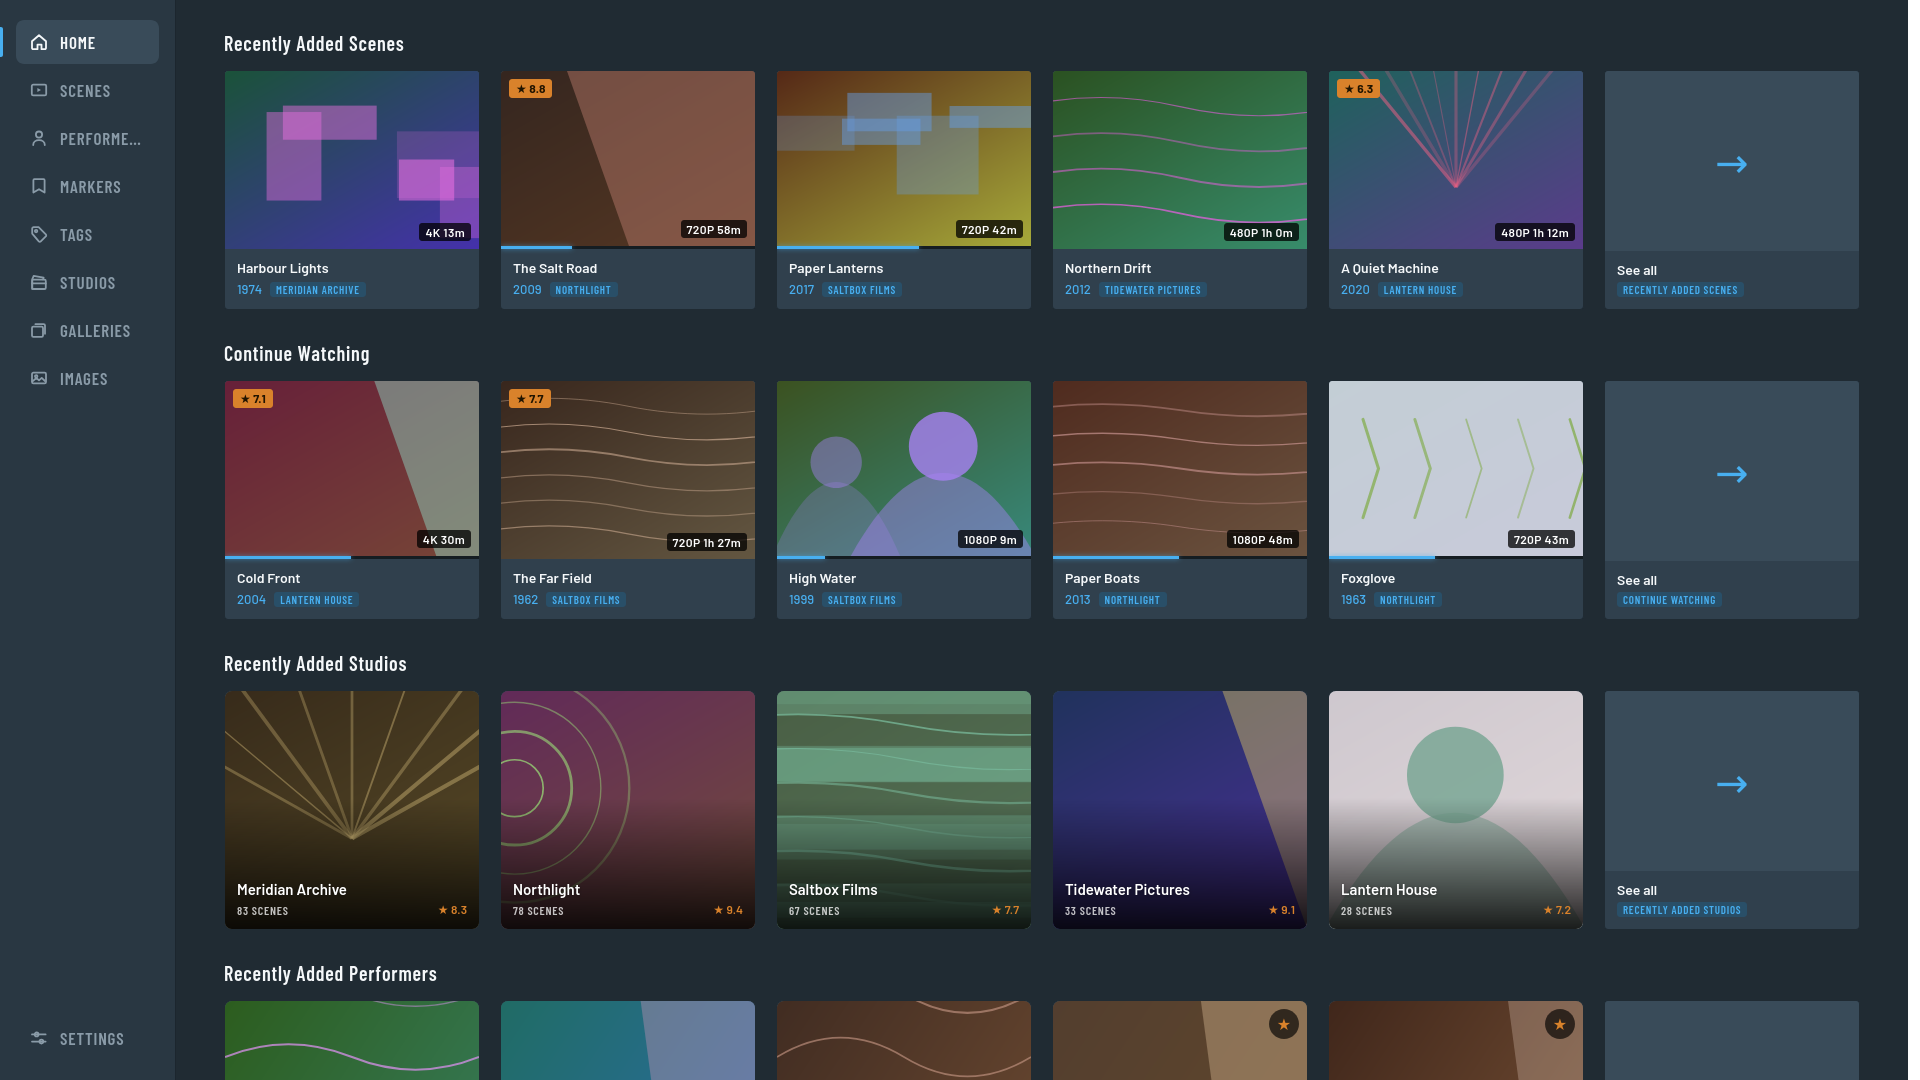
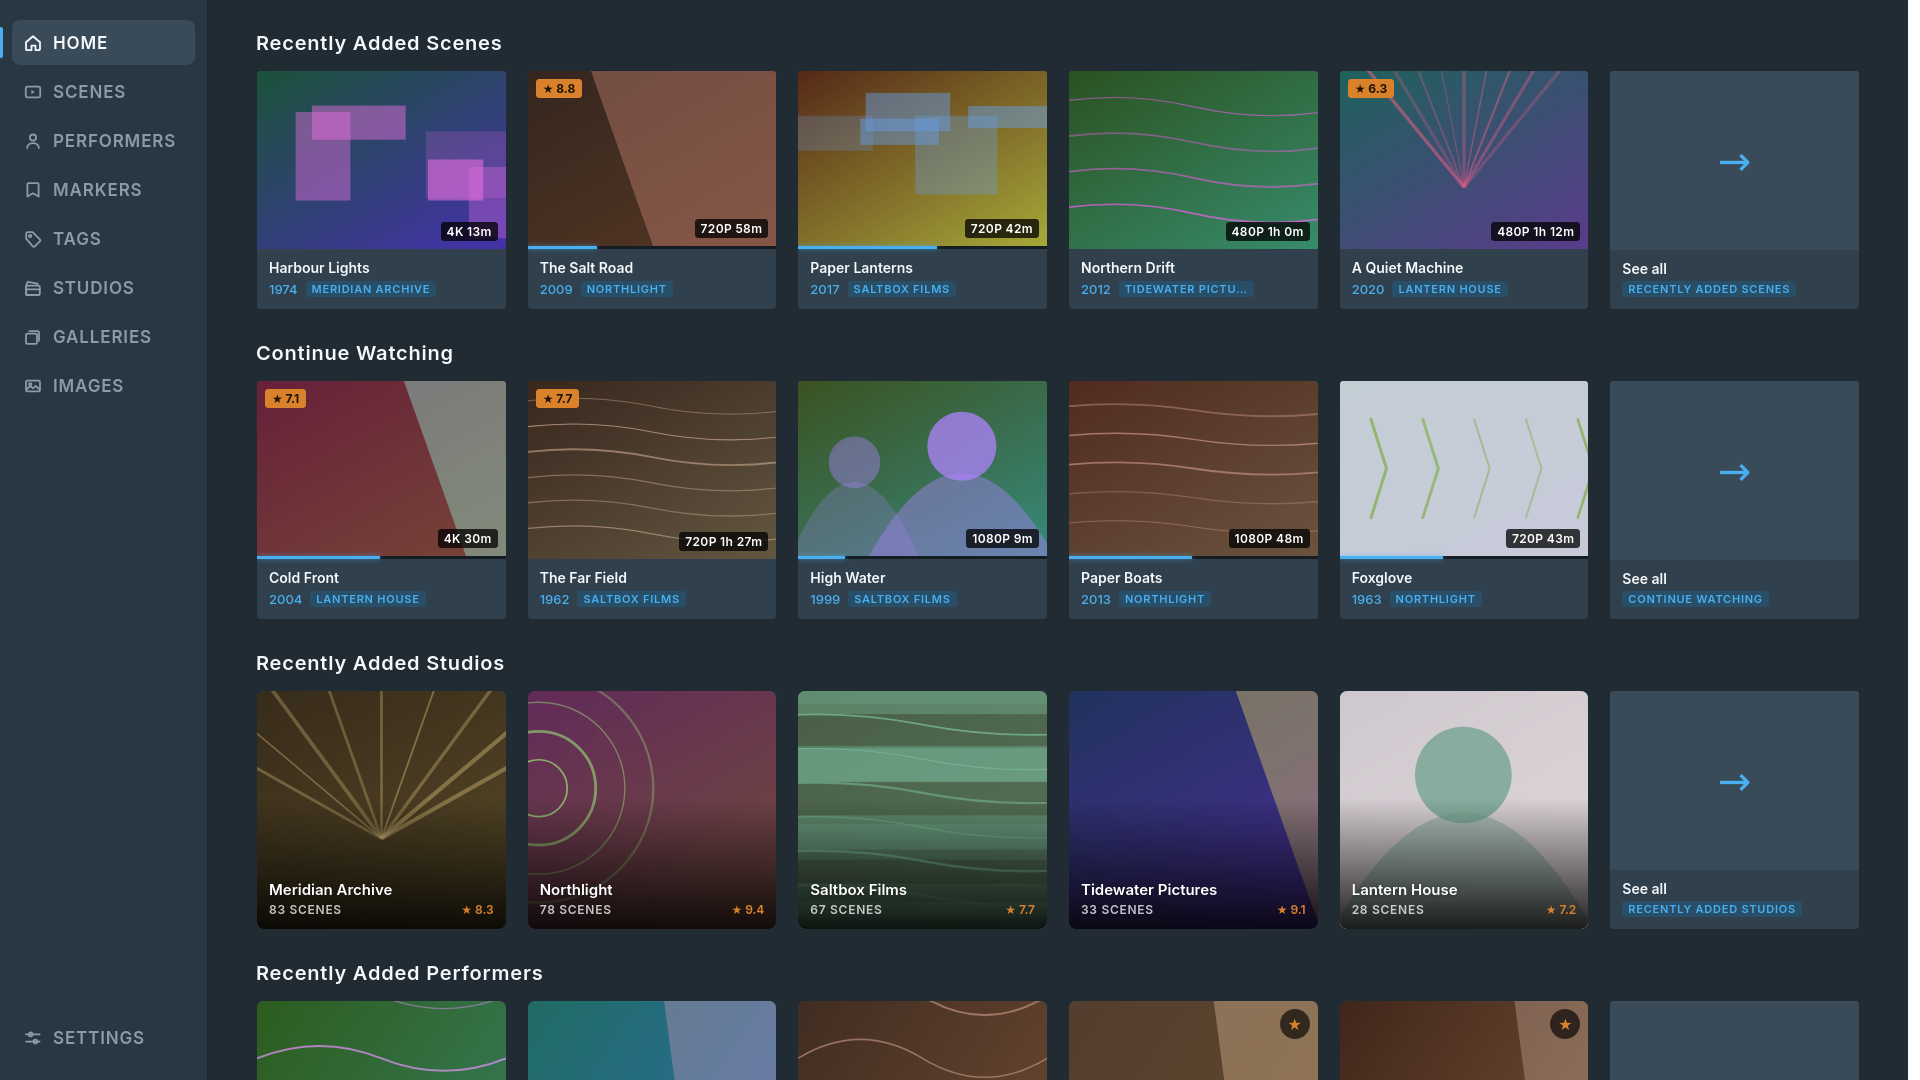
StashZen 0.28.0

diff --git a/src/index.css b/src/index.css
@@ -3,75 +3,21 @@
    Designed for 10-foot UI / Tizen remote navigation
    ========================================================= */
 
-/* ── Barlow, self-hosted (latin subset) ───────────────────
-   This used to be a runtime @import from fonts.googleapis.com. On a TV
-   that is a third-party request on every cold start, and on a LAN-only
-   network it fails silently — the whole UI drops to a system sans face.
-   Self-hosting makes the fonts part of the widget: no external host, no
-   flash of fallback type. URLs are relative so they survive the
-   `base: './'` build. Weights are exactly those the stylesheets use. */
+/* ── Inter, self-hosted (latin subset) ────────────────────
+   Runtime webfonts were a third-party request on every cold start, and on
+   a LAN-only network they fail silently — the whole UI drops to a system
+   sans face. Self-hosting makes the font part of the widget: no external
+   host, no flash of fallback type. The URL is relative so it survives the
+   `base: './'` build.
+
+   One variable file covers 100–900; Google serves the same latin woff2 for
+   every weight. The stylesheets use 300–700, all inside that axis. */
 @font-face {
-  font-family: 'Barlow';
+  font-family: 'Inter';
   font-style: normal;
-  font-weight: 300;
+  font-weight: 100 900;
   font-display: swap;
-  src: url('./assets/fonts/barlow-300.woff2') format('woff2');
-  unicode-range: U+0000-00FF, U+0131, U+0152-0153, U+02BB-02BC, U+02C6, U+02DA, U+02DC, U+0304, U+0308, U+0329, U+2000-206F, U+20AC, U+2122, U+2191, U+2193, U+2212, U+2215, U+FEFF, U+FFFD;
-}
-@font-face {
-  font-family: 'Barlow';
-  font-style: normal;
-  font-weight: 400;
-  font-display: swap;
-  src: url('./assets/fonts/barlow-400.woff2') format('woff2');
-  unicode-range: U+0000-00FF, U+0131, U+0152-0153, U+02BB-02BC, U+02C6, U+02DA, U+02DC, U+0304, U+0308, U+0329, U+2000-206F, U+20AC, U+2122, U+2191, U+2193, U+2212, U+2215, U+FEFF, U+FFFD;
-}
-@font-face {
-  font-family: 'Barlow';
-  font-style: normal;
-  font-weight: 500;
-  font-display: swap;
-  src: url('./assets/fonts/barlow-500.woff2') format('woff2');
-  unicode-range: U+0000-00FF, U+0131, U+0152-0153, U+02BB-02BC, U+02C6, U+02DA, U+02DC, U+0304, U+0308, U+0329, U+2000-206F, U+20AC, U+2122, U+2191, U+2193, U+2212, U+2215, U+FEFF, U+FFFD;
-}
-@font-face {
-  font-family: 'Barlow';
-  font-style: normal;
-  font-weight: 600;
-  font-display: swap;
-  src: url('./assets/fonts/barlow-600.woff2') format('woff2');
-  unicode-range: U+0000-00FF, U+0131, U+0152-0153, U+02BB-02BC, U+02C6, U+02DA, U+02DC, U+0304, U+0308, U+0329, U+2000-206F, U+20AC, U+2122, U+2191, U+2193, U+2212, U+2215, U+FEFF, U+FFFD;
-}
-@font-face {
-  font-family: 'Barlow';
-  font-style: normal;
-  font-weight: 700;
-  font-display: swap;
-  src: url('./assets/fonts/barlow-700.woff2') format('woff2');
-  unicode-range: U+0000-00FF, U+0131, U+0152-0153, U+02BB-02BC, U+02C6, U+02DA, U+02DC, U+0304, U+0308, U+0329, U+2000-206F, U+20AC, U+2122, U+2191, U+2193, U+2212, U+2215, U+FEFF, U+FFFD;
-}
-@font-face {
-  font-family: 'Barlow Condensed';
-  font-style: normal;
-  font-weight: 400;
-  font-display: swap;
-  src: url('./assets/fonts/barlow-condensed-400.woff2') format('woff2');
-  unicode-range: U+0000-00FF, U+0131, U+0152-0153, U+02BB-02BC, U+02C6, U+02DA, U+02DC, U+0304, U+0308, U+0329, U+2000-206F, U+20AC, U+2122, U+2191, U+2193, U+2212, U+2215, U+FEFF, U+FFFD;
-}
-@font-face {
-  font-family: 'Barlow Condensed';
-  font-style: normal;
-  font-weight: 600;
-  font-display: swap;
-  src: url('./assets/fonts/barlow-condensed-600.woff2') format('woff2');
-  unicode-range: U+0000-00FF, U+0131, U+0152-0153, U+02BB-02BC, U+02C6, U+02DA, U+02DC, U+0304, U+0308, U+0329, U+2000-206F, U+20AC, U+2122, U+2191, U+2193, U+2212, U+2215, U+FEFF, U+FFFD;
-}
-@font-face {
-  font-family: 'Barlow Condensed';
-  font-style: normal;
-  font-weight: 700;
-  font-display: swap;
-  src: url('./assets/fonts/barlow-condensed-700.woff2') format('woff2');
+  src: url('./assets/fonts/inter-latin.woff2') format('woff2');
   unicode-range: U+0000-00FF, U+0131, U+0152-0153, U+02BB-02BC, U+02C6, U+02DA, U+02DC, U+0304, U+0308, U+0329, U+2000-206F, U+20AC, U+2122, U+2191, U+2193, U+2212, U+2215, U+FEFF, U+FFFD;
 }
 
@@ -142,11 +88,18 @@
   --focus-ring: 0 0 0 3px var(--accent), 0 0 0 5px rgba(72, 175, 240, 0.25);
 
   /* Typography */
-  --font-body:      'Barlow', sans-serif;
-  --font-condensed: 'Barlow Condensed', sans-serif;
+  /* Both slots point at Inter for the trial. Inter has no condensed cut, so
+     `--font-condensed` keeps its name to avoid churning the call sites; the
+     labels that relied on narrow letterforms are the ones to watch on a TV. */
+  --font-body:      'Inter', sans-serif;
+  --font-condensed: 'Inter', sans-serif;
 
   /* Spacing */
-  --sidebar-w: 176px;   /* the rail; the content column starts here */
+  /* 208px, not the Barlow Condensed 176px: Inter is wider, and "PERFORMERS"
+     at 17px/600/0.05em measures ~123px where the narrower face fitted in 87.
+     Rail padding and row padding are trimmed to match, so the wider rail
+     spends most of its growth on the label rather than on air. */
+  --sidebar-w: 208px;   /* the rail; the content column starts here */
 
   /* Easing */
   --ease-tv: cubic-bezier(0.32, 0.72, 0, 1);

diff --git a/scripts/harness/rail-entry.jsx b/scripts/harness/rail-entry.jsx
@@ -28,8 +28,9 @@
  * R7 asserts each edge separately: two up, two sideways out of the bar, and
  * two sideways into it, which is more than a hand-picked path would cover.
  *
- * Rectangles are asserted rather than eyeballed because the rail's 176px has
- * to hold "PERFORMERS" in Barlow Condensed 17px with 0.05em tracking, and
+ * Rectangles are asserted rather than eyeballed because the rail's 208px has
+ * to hold "PERFORMERS" in Inter 17px/600 with 0.05em tracking (176px was
+ * enough for Barlow Condensed, not for Inter), and
  * `.label` carries `text-overflow: ellipsis`. A label that does not fit is
  * therefore not an error, a wrap or an overflow — it is three dots, silently.
  * `scrollWidth > clientWidth` is the only cheap way to see that happen.
@@ -179,7 +180,7 @@ async function run() {
   const main = document.querySelector('[role="main"]');
   const railRect = rect(rail);
   const mainRect = rect(main);
-  check('R2 the rail is --sidebar-w wide', Math.round(railRect.width) === 176,
+  check('R2 the rail is --sidebar-w wide', Math.round(railRect.width) === 208,
     `${Math.round(railRect.width)}px`);
   check('R2 the content column starts at the rail, not under it',
     mainRect.left >= railRect.right - 1,

diff --git a/src/components/NavRail.module.css b/src/components/NavRail.module.css
@@ -10,7 +10,9 @@
   display: flex;
   flex-direction: column;
   gap: 4px;
-  padding: 20px 16px;
+  /* Trimmed from 16px as the rail grew for Inter's wider letterforms — see
+     --sidebar-w. The label gets the pixels, not the margins. */
+  padding: 20px 12px;
   background: var(--bg-surface);
   border-right: 1px solid var(--border);
 }
@@ -35,9 +37,9 @@
 .item {
   display: flex;
   align-items: center;
-  gap: 11px;
+  gap: 10px;
   width: 100%;
-  padding: 12px 13px;
+  padding: 12px 11px;
   font-family: var(--font-condensed);
   font-size: 17px;
   font-weight: 600;
